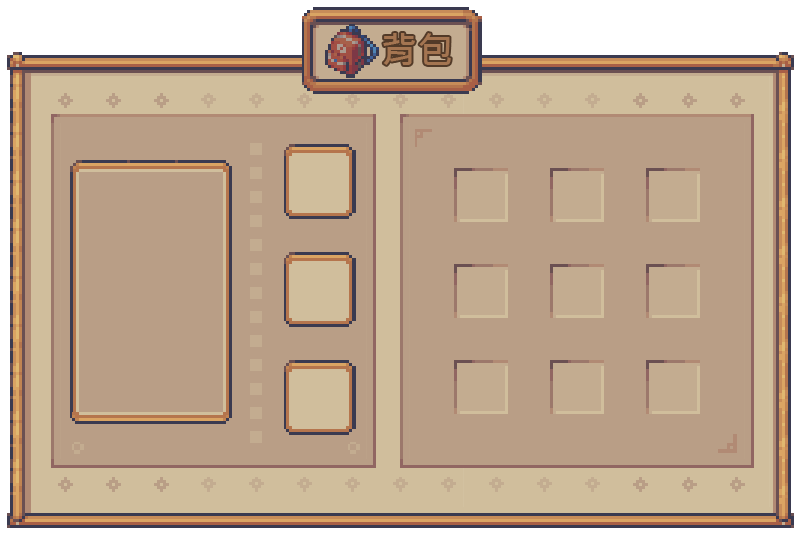
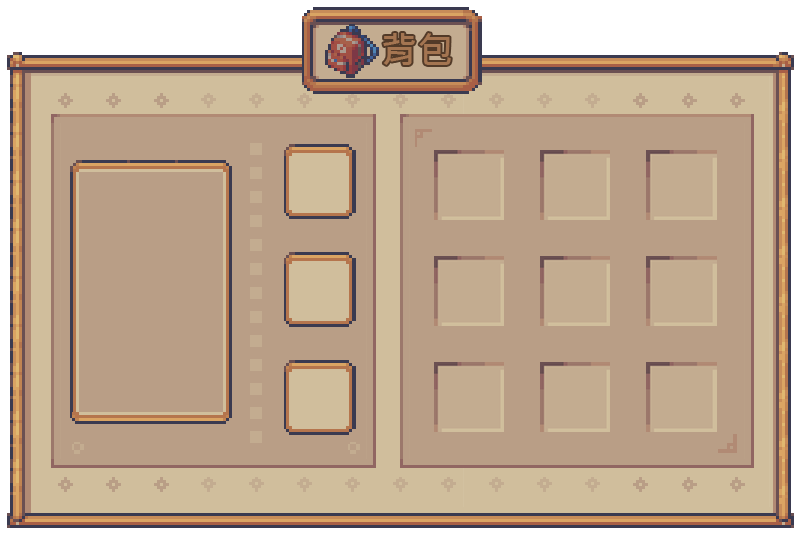
修改背包圖案與位置

diff --git a/src/Stores/gameStore.js b/src/Stores/gameStore.js
@@ -7,7 +7,7 @@ import { useRouter } from "vue-router";
 const router = useRouter();
 export const useGameStore = defineStore("game", {
   state: () => ({
-    inventoryItems: new Array(15).fill(null),
+    inventoryItems: new Array(9).fill(null),
     equipmentSlots: [null, null, null],
     equippedItems: {
       accessory: null,
@@ -19,10 +19,10 @@ export const useGameStore = defineStore("game", {
     inventoryBackground: null,
     account: null,
     slotConfig: {
-      size: 105,
-      cols: 5,
+      size: 70,
+      cols: 3,
       rows: 3,
-      padding: 15.5,
+      padding: 35,
     },
     inventoryPosition: {
       x: 0,
@@ -110,7 +110,7 @@ export const useGameStore = defineStore("game", {
         this.loadedSprites.clear();
         console.log("初始化背包 - 開始");
         this.inventoryBackground = await this.loadImage(
-          "/images/BackPack_Test.png"
+          "/images/BackPack.png"
         );
 
         const [equipment, userItems] = await Promise.all([
@@ -118,7 +118,7 @@ export const useGameStore = defineStore("game", {
           itemApi.getUserItems(account),
         ]);
         console.log("當前裝備狀態:", equipment);
-        this.inventoryItems = new Array(15).fill(null);
+        this.inventoryItems = new Array(9).fill(null);
         this.equipmentSlots = [null, null, null];
         this.equippedItems = {
           accessory: null,
@@ -278,10 +278,22 @@ export const useGameStore = defineStore("game", {
           equipmentData.outfit?.imageName
         );
 
+        console.log('更新前的 Pinia 狀態:', {
+          Head: playerCharacterStore.Head,
+          Upper: playerCharacterStore.Upper,
+          Lower: playerCharacterStore.Lower
+        });
+
         // 更新 Pinia store
         playerCharacterStore.Head = accessoryCode?.toString() || "";
         playerCharacterStore.Upper = hairstyleCode?.toString() || "";
         playerCharacterStore.Lower = outfitCode?.toString() || "";
+
+        console.log('更新後的 Pinia 狀態:', {
+          Head: playerCharacterStore.Head,
+          Upper: playerCharacterStore.Upper,
+          Lower: playerCharacterStore.Lower
+        });
 
         return true;
       } catch (error) {
@@ -788,7 +800,7 @@ export const useGameStore = defineStore("game", {
             ]);
 
             // 重置物品欄和裝備數據
-            this.inventoryItems = new Array(15).fill(null);
+            this.inventoryItems = new Array(9).fill(null);
             this.equippedItemsMap.clear(); // 重置已裝備物品的追蹤
             // 如果沒有現有裝備，才初始化裝備欄
             if (

diff --git a/src/views/DressView.vue b/src/views/DressView.vue
@@ -4,6 +4,7 @@ import { useRouter, useRoute } from 'vue-router';
 import { useGameStore } from "@/Stores/gameStore";
 import { useGameEvents } from "@/composables/useGameEvents";
 import InventoryCanvas from '@/components/game/InventoryCanvas.vue';
+import GoBackComponent from "@/components/GoBackComponent.vue";
 
 const router = useRouter();
 const route = useRoute();
@@ -72,11 +73,13 @@ const goBack = async () => {
 <template>
   <div id="formborder">
     <div class="canvas-container">
-      <button id="back" @click="goBack"></button>
+      <div class="dress">
+      <GoBackComponent @goback="goBack"></GoBackComponent>
+    </div>
       <InventoryCanvas
         ref="inventoryCanvasRef"
-        :width="1092"
-        :height="622"
+        :width="802"
+        :height="535"
       />
     </div>
   </div>
@@ -87,20 +90,18 @@ const goBack = async () => {
   display: flex;
   flex-direction: column;
   background-color: transparent;
-  width: 1092px;
-  height: 622px;
   position: fixed;
-  top: 40px;
+  top: 60px;
   left: 332px;
 }
 
-#back {
+.dress {
   border: none;
   position: absolute;
-  width: 45px;
-  height: 45px;
-  top: 5px;
-  right: 5px;
+  width: 32px;
+  height: 42px;
+  top: 90px;
+  left: 725px;
   background-color: transparent;
 }
 

diff --git a/src/components/game/InventoryCanvas.vue b/src/components/game/InventoryCanvas.vue
@@ -64,7 +64,7 @@ const initializePositions = () => {
     for (let col = 0; col < gameStore.slotConfig.cols; col++) {
       gameStore.itemSlots.push({
         x: x + 437 * scale + col * (slotSize + padding),
-        y: y + 163 * scale + row * (slotSize + padding),
+        y: y + 150 * scale + row * (slotSize + padding),
       });
     }
   }
@@ -73,17 +73,17 @@ const initializePositions = () => {
   gameStore.equipmentSlotsPosition = [];
   for (let i = 0; i < 3; i++) {
     gameStore.equipmentSlotsPosition.push({
-      x: x + 253 * scale,
-      y: y + 193 * scale + i * (slotSize + padding),
+      x: x + 285 * scale,
+      y: y + 147 * scale + i * (slotSize + padding),
     });
   }
 
   // 更新預覽框位置
   gameStore.previewBox = {
-    x: x + 40 * scale,
-    y: y + 200 * scale,
-    width: 185 * scale,
-    height: 300 * scale,
+    x: x + 75 * scale,
+    y: y + 150 * scale,
+    width: 160 * scale,
+    height: 270 * scale,
   };
 
   // 更新背包位置
